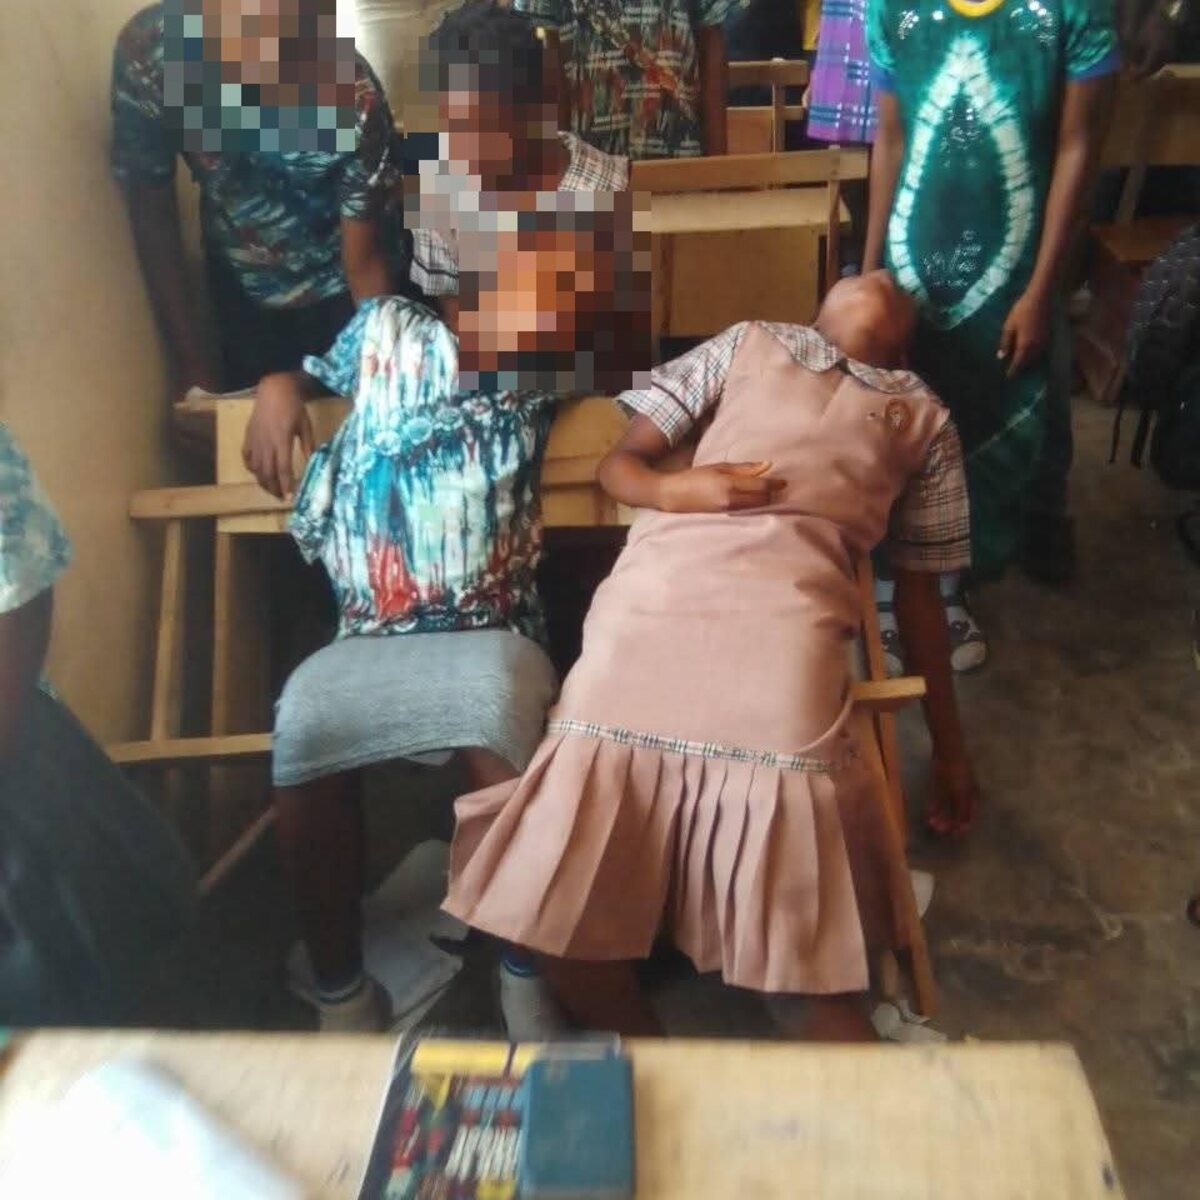
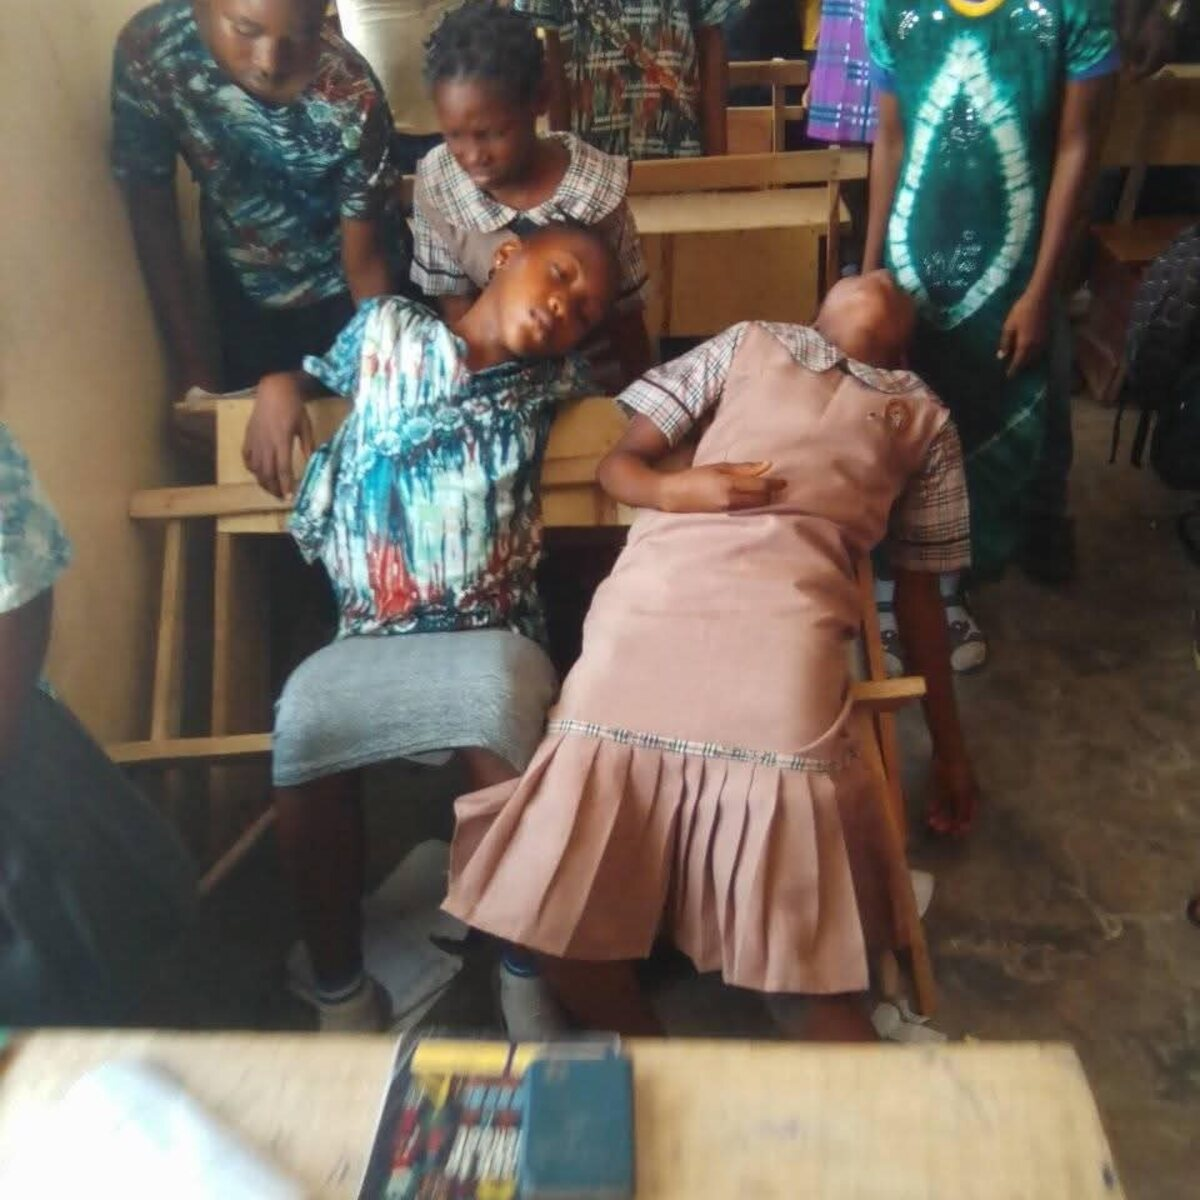
Publish testimony photos unblurred on the ministry's confirmation of consent

Changed region(s): [[0.3392, 0.0308, 0.555, 0.3392], [0.1233, 0.0, 0.3083, 0.1233], [0.5242, 0.3083, 0.555, 0.3392]]

diff --git a/index.html b/index.html
@@ -345,7 +345,7 @@
       <div class="see-wrap">
         <button class="seemore" data-grid="grid-outreach" data-more="See more photos" data-less="Show less">See more photos <span>&darr;</span></button>
       </div>
-      <p class="gal-note">Photographs are shared by the ministry. Faces are blurred where men and women were photographed in vulnerable moments, and no one is named.</p>
+      <p class="gal-note">Photographs shared by the ministry with the consent of those pictured. No one is named here.</p>
     </div>
   </section>
 
